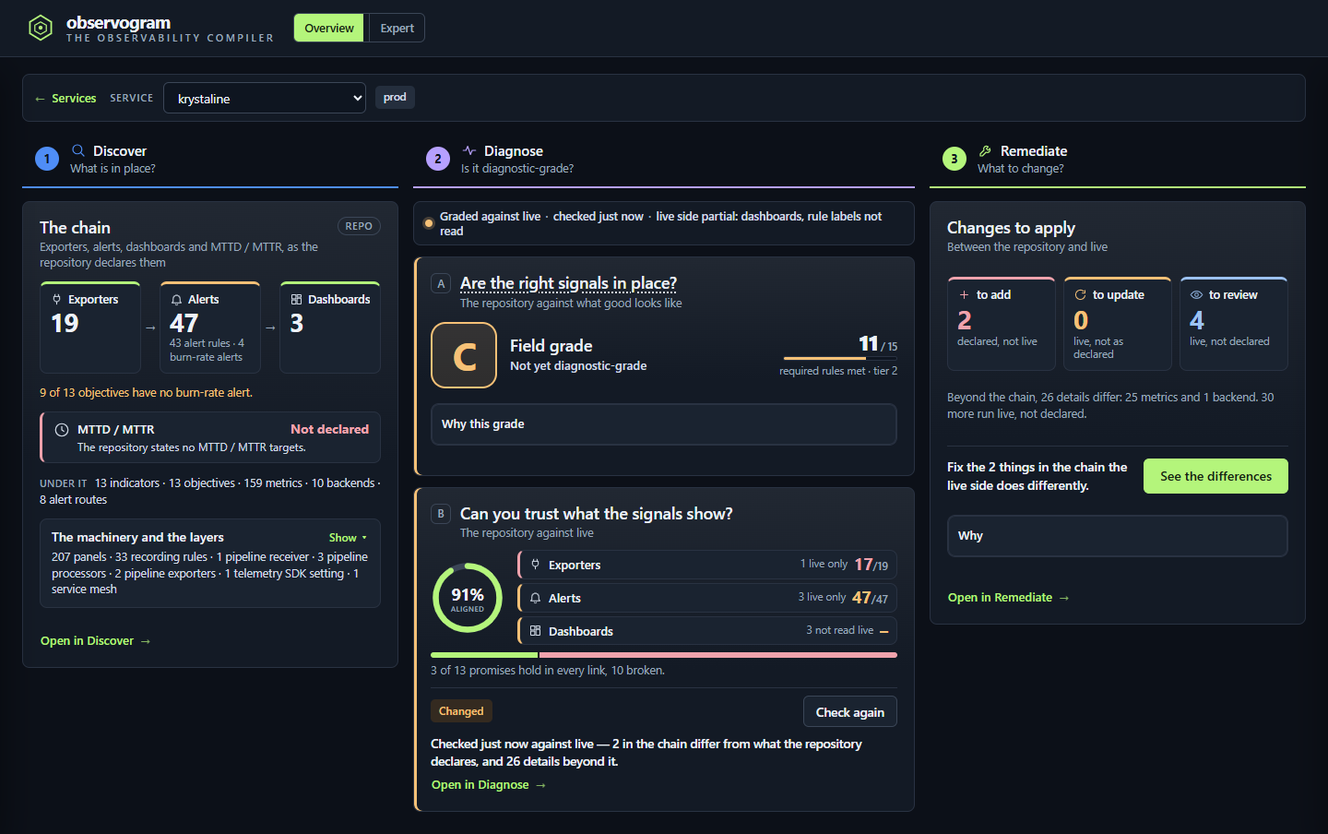
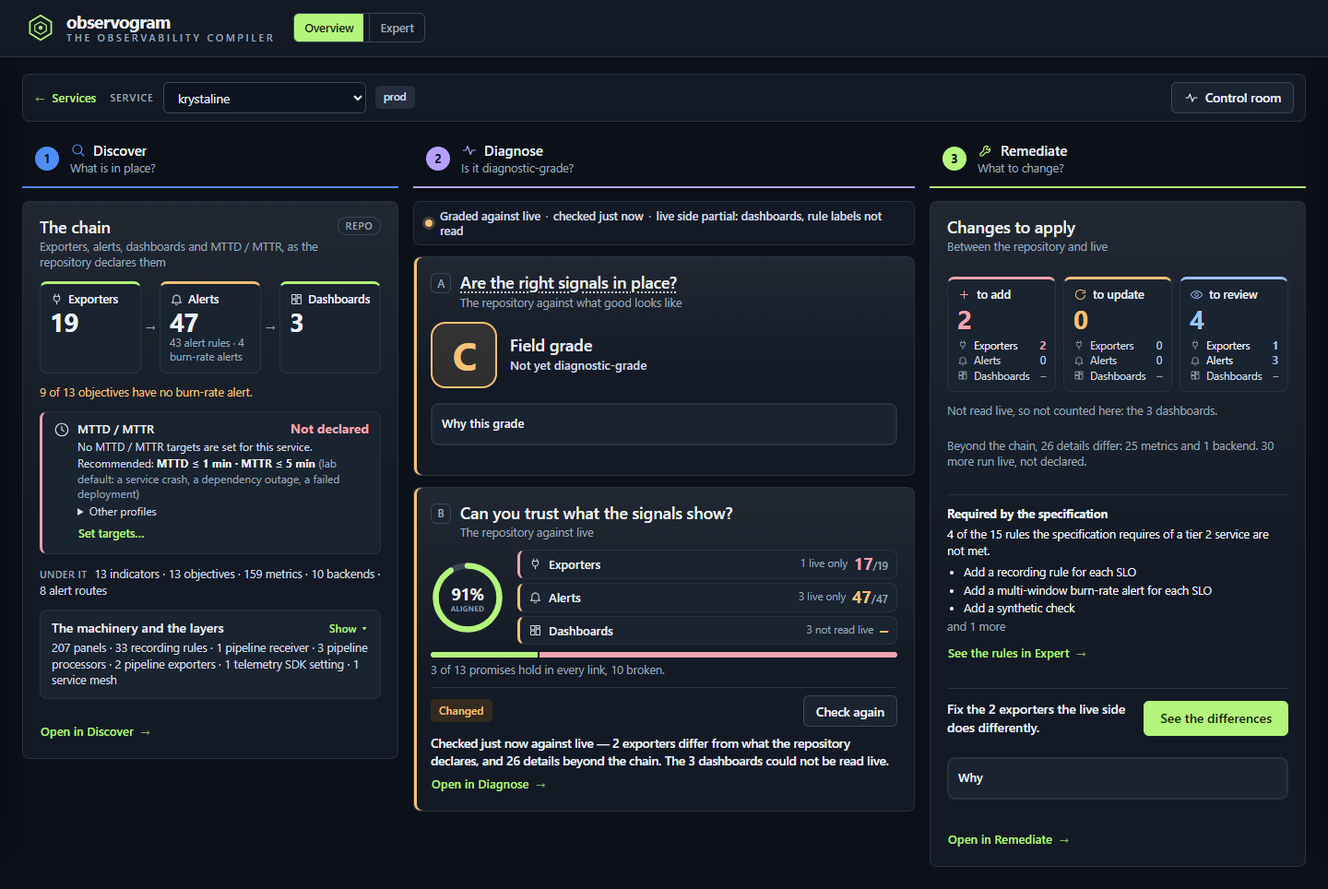
feat(studio): the specification's required rules move from the grade card to Remediate
Beside the grade letter the board drew "14 / 25 required rules met ·
tier 1" with a bar of its own: a second verdict on the same card, which
the grade does not count, so a B+ and a 56% seemed to disagree. The
grade card now holds the grade alone, and the rules not met are listed
in Remediate as things to do.

- studio/overview-view.mjs, overview.css: the grade card without the
  rules; Remediate's "Required by the specification" block (the count,
  the first three as what to do, and N more, See the rules in Expert).
- studio/overview-model.mjs rulesModel: unmet, missing (what to do, by
  Expert's own fixes, never a rule id), waived (left out, counted).
- studio/clause-fixes.mjs (new, zero-import): CLAUSE_FIX moved out of
  conformance-view.mjs (re-exported there), so the board shares it.
- studio/app.mjs: host.overview.openRules opens Expert's Conformance.
- nextActionModel: with live in agreement and rules left, the next step
  says those are what is left to add, never "nothing to do".
- README: the board's picture taken again (docs/img/overview-board.png).

diff --git a/studio/overview.css b/studio/overview.css
@@ -320,7 +320,7 @@ p.ov-scan__sum { cursor: default; }
 .ov-status--warn .ov-status__dot { background: var(--og-warn); box-shadow: 0 0 0 3px color-mix(in srgb, var(--og-warn) 22%, transparent); }
 .ov-status--fail .ov-status__dot { background: var(--og-fail); box-shadow: 0 0 0 3px color-mix(in srgb, var(--og-fail) 22%, transparent); }
 .ov-status__sep { color: var(--og-muted); margin: 0 2px; }
-.ov-result { display: grid; grid-template-columns: auto minmax(0, 1fr) auto; column-gap: 14px; align-items: center; margin-top: 12px; }
+.ov-result { display: grid; grid-template-columns: auto minmax(0, 1fr); column-gap: 14px; align-items: center; margin-top: 12px; }
 .ov-shield { width: 72px; height: 72px; display: grid; place-items: center; color: var(--og-text); border: 2px solid currentColor; border-radius: 16px; background: color-mix(in srgb, currentColor 12%, transparent); }
 .ov-shield.ov-tone-ok { color: var(--og-accent); }
 .ov-shield.ov-tone-warn { color: var(--og-warn); }
@@ -331,14 +331,12 @@ p.ov-scan__sum { cursor: default; }
 .ov-board .ov-grade__label { font: 600 18px/1.2 var(--og-font); letter-spacing: -0.01em; color: var(--og-text); }
 .ov-board .ov-grade__word { font: 500 13px/1.3 var(--og-font); color: var(--og-text-2); }
 .ov-board .ov-grade__src { font: 400 12px/1.3 var(--og-font); }
-.ov-rules { display: grid; gap: 4px; min-width: 124px; justify-items: end; text-align: right; }
-.ov-rules__n { font: 650 22px/1 var(--og-font); letter-spacing: -0.02em; color: var(--og-text); }
-.ov-rules__of { font: 500 12px/1 var(--og-font); color: var(--og-muted); margin-left: 3px; }
-.ov-rules__bar { width: 124px; height: 5px; border-radius: 3px; background: var(--og-sunken); border: 1px solid var(--og-line); overflow: hidden; }
-.ov-rules__bar > span { display: block; height: 100%; background: var(--og-accent); }
-.ov-rules--warn .ov-rules__bar > span { background: var(--og-warn); }
-.ov-rules--fail .ov-rules__bar > span { background: var(--og-fail); }
-.ov-rules__text { font: 400 11.5px/1.3 var(--og-font); color: var(--og-muted); }
+/* Remediate's rules: what the specification requires and the pack does not declare. */
+.ov-rules { display: grid; gap: 6px; margin-top: 14px; padding-top: 12px; border-top: 1px solid var(--og-line); }
+.ov-rules__h { margin: 0; font: 650 13px/1.3 var(--og-font); color: var(--og-text); }
+.ov-rules__list { margin: 0; padding-left: 18px; display: grid; gap: 2px; font: 400 12.5px/1.4 var(--og-font); color: var(--og-text); }
+.ov-rules__more { list-style: none; margin-left: -18px; }
+.ov-rules__link { justify-self: start; }
 .ov-board .ov-grade__points { margin-top: 10px; font-size: 12.5px; }
 .ov-grade__why { margin-top: 12px; }
 .ov-gw-list--open { margin-top: 6px; gap: 4px; font-size: 13.5px; line-height: 1.4; }

diff --git a/docs/VENDORING.md b/docs/VENDORING.md
@@ -188,12 +188,13 @@ A host whose own fetcher writes neither gets "no chaos experiment declared in
 this pack", which is true. `boardGroupsHtml(layerId, entries, { annotations })`
 (studio/discover-board.mjs) reads the same two keys for the empty chaos group;
 without the third argument it says "None in this pack" as before.
-| [`studio/overview-model.mjs`](../studio/overview-model.mjs) | imports `services-model.mjs` (zero-import), `diagnostic-grade.mjs`, `set-asides.mjs` (zero-import), `artefact-tiers.mjs` (zero-import), `mttx-targets.mjs` (zero-import), `chaos-runs.mjs` (zero-import), `constants.mjs` — copy the eight together (CI-asserted: `tools/test-overview-model.mjs`) | the Overview board's model, pure — `buildOverviewModel(input)` and its parts (`gradeModel`, `gradeWhy`, `stillTrueModel`, `nextActionModel`, `chainModel`, `chainDifferences` and `chainWords` (the chain in words: what differs, what matches, what live did not read), `layersModel`, `rulesModel`, `fidelityModel`, `changesModel`, `vantageShrank`, `runGradesBoard`, `boardComparison`, `decideUiMode`, `decideOverviewLayout`), the control room's targets (`controlRoomMttx`), Record a chaos run… (`chaosExperimentsOf`, `chaosRunFormOpened`, `chaosRunFormInput`, `chaosRunPlan`, `chaosRunForgetPlan`, `chaosRunFormModel`) and the start's logic (`START_IDLE`, `startChoose`, `startAdopted`); see *The Overview board* below |
+| [`studio/overview-model.mjs`](../studio/overview-model.mjs) | imports `services-model.mjs` (zero-import), `diagnostic-grade.mjs`, `set-asides.mjs` (zero-import), `artefact-tiers.mjs` (zero-import), `mttx-targets.mjs` (zero-import), `chaos-runs.mjs` (zero-import), `constants.mjs`, `clause-fixes.mjs` (zero-import) — copy the nine together (CI-asserted: `tools/test-overview-model.mjs`) | the Overview board's model, pure — `buildOverviewModel(input)` and its parts (`gradeModel`, `gradeWhy`, `stillTrueModel`, `nextActionModel`, `chainModel`, `chainDifferences` and `chainWords` (the chain in words: what differs, what matches, what live did not read), `layersModel`, `rulesModel`, `fidelityModel`, `changesModel`, `vantageShrank`, `runGradesBoard`, `boardComparison`, `decideUiMode`, `decideOverviewLayout`), the control room's targets (`controlRoomMttx`), Record a chaos run… (`chaosExperimentsOf`, `chaosRunFormOpened`, `chaosRunFormInput`, `chaosRunPlan`, `chaosRunForgetPlan`, `chaosRunFormModel`) and the start's logic (`START_IDLE`, `startChoose`, `startAdopted`); see *The Overview board* below |
 | [`studio/set-asides.mjs`](../studio/set-asides.mjs) | **zero-import** (CI-asserted: `tools/test-overview-model.mjs`) | a service's set-asides — differences with live its grade leaves out (under development, not this service's): `applySetAsides(diff, list, { now })` returns the comparison without them (its summary and requirement chains scored again, the engine's beside), `setAsideCandidates`, `setAsideFingerprint`, `setAsideState`, `reviewDate`; the server's runs and Expert's Diagnose read the same rules |
 | [`studio/control-room-model.mjs`](../studio/control-room-model.mjs) | **zero-import** (CI-asserted: `tools/test-overview-model.mjs`) | the control room's model, pure: the panel's state from one read to the next (`controlRoomOpened`, `controlRoomReading`, `controlRoomAnswered`, `controlRoomFailed`, `controlRoomDue` — a minute; 1, 2, then 4 minutes after consecutive failures; none hidden, none after a final refusal) and `buildControlRoomModel({ state, serviceName, envName, mttx, now })`, the server's answer in words and numbers (MTTR and MTTD first, never a figure the read did not support; what the figures are of said under the title — the service's own, as the server scopes the read to its repository's alert rules and scrape jobs, or the endpoint's whole from an older server); `mttx` is `overview-model.mjs` `controlRoomMttx({ loaded, layered, layeredError, targets, settable })` — the repository's targets (`origin: 'repository'`), else the studio's with their words (`origin: 'studio'`, `mttdWords`, `mttrWords`: measured against, said so), else `{ declared: false, recommended }` (no verdict), each with every recorded chaos run (`runs`) and, with `settable`, `action` (*Set targets…* / *Change targets…*, the model's `targets: { label, aria }`, the panel's button to `host.overview.setTargets()`); `{ unread: true }` while the repository's pack is not read |
 | [`studio/control-room-view.mjs`](../studio/control-room-view.mjs) | imports `util.mjs` (escapeHtml), `host.mjs`, `ux-kit-pure.mjs` — as `overview-view.mjs` (CI-asserted) | `renderControlRoom(container, model, host)`: the panel into its own host element (never inside the board, which repaints) — two children, the panel and a live region kept across repaints; a repaint of the same service environment redraws only the pieces whose words changed — `host.overview.closeControlRoom` and `refreshControlRoom`; `placeControlRoom(head)`; `formatValue`, `boundWords` |
 | [`studio/control-room-api.mjs`](../studio/control-room-api.mjs) | imports `services-api.mjs` (requestJson) and `control-room-model.mjs` (CI-asserted) | `loadControlRoom(serviceId, env)` (`POST /api/services/:id/control-room`) and `createControlRoomDriver({ load, onChange, timers, visibility })`: one read at a time while the panel is open, paused while the page is hidden |
 | [`studio/mttx-targets.mjs`](../studio/mttx-targets.mjs) | **zero-import** (CI-asserted: `tools/test-mttx-targets.mjs`) | the MTTD / MTTR targets a service can be given in the studio: `MTTX_PROFILES` (Lab default — the recommended one —, Critical financial service, Significant degradation, Noncritical service), `targetsView`, the form's answer (`targetsFormValues`, `targetsFromForm`, `targetsFormProblems`, `targetsOptions`) and what the server accepts (`targetsErrors`, `targetsRecord`); the server's `parseTargets` reads the same list. The grade: `withStudioTargets(layered, targets)` puts them on the pack (`meta.studioTargets`) for `computeDiagnosticGrade`'s Calibrated, which counts them where the repository states no baselines of its own — apply it as the board and Expert do (`studio/app.mjs`), and a check takes them as `runJourney({ mttxTargets })` or its file's `mttxTargets` (`storedTargetsError` says why one does not load); `targetsTermKey` is the key the board compares a run's `grade.targets` with the service's — a run names them only when its Calibrated counted them, so a host grading checks itself records `grade.targets` the same way, or the board grades a counted letter again from the repository (`overview-model.mjs` `studioTargetsCounted`) |
+| [`studio/clause-fixes.mjs`](../studio/clause-fixes.mjs) | **zero-import** (CI-asserted: `tools/test-overview-model.mjs`) | `CLAUSE_FIX` — for each rubric clause of the specification (`tools/lib/conformance.mjs`) why it is not met and what to do (`{ reason, action }`); Expert's Conformance and the board's Remediate (`rulesModel`) read the same words; `studio/conformance-view.mjs` re-exports it |
 | [`studio/chaos-runs.mjs`](../studio/chaos-runs.mjs) | **zero-import** (CI-asserted: `tools/test-chaos-runs.mjs`) | the chaos runs a person records in the studio: what the server accepts (`chaosRunErrors`, `chaosRunRecord`, `chaosRunId`, `sameChaosRun`), the MTTD typed (`parseMttdText`, `mttdSeconds`, `mttdDuration`), a run in words (`chaosRunWords`), and `withStudioRuns(layered, runs, { env })` — the newest run of each experiment in an environment as its `last_result` where newer than the repository's; the server's `parseChaosRuns` and the journey runner read the same rules |
 | [`studio/artefact-tiers.mjs`](../studio/artefact-tiers.mjs) | **zero-import** (CI-asserted: `tools/test-overview-model.mjs`) | what people know and what they do not: every artefact family's tier — 1 the chain (exporters, alerts, dashboards, MTTD / MTTR), 2 the detail, 3 the machinery — `declaredByTier(layered)` (what a pack declares by tier, the objectives no burn-rate alert covers, the MTTD / MTTR targets), `comparisonByTier(diff)` (a comparison by link and tier: what each run records as `drift.tiers`), `CHAIN_LINKS`, `tierOfFamily`, `familyOfArtefact`; its id prefixes mirror `tools/lib/artefact-classify.mjs` (CI-asserted: `tools/test-artefact-tiers.mjs`) |
 | [`studio/overview-view.mjs`](../studio/overview-view.mjs) | `escapeHtml` from `util.mjs` (the stub); `host.mjs`; `ux-kit-pure.mjs` (CI-asserted) | `renderOverview(container, model, host)`: the board and its simple fallback layout from the model; actions ride on `host.overview` |
@@ -293,6 +294,7 @@ host.overview = {
   selectService(id), selectEnv(name),           // the picker and the environment switch
   checkNow(),                                   // Check again → runServiceCheck, then re-read the facts
   openDiscover(compare), openDiagnose(compare), openRemediate(compare),   // the column links (compare: below)
+  openRules(compare),                           // Remediate's "See the rules in Expert": the specification's rules (Conformance)
   openNeuron(),                                 // "See the differences"
   expert(), retry(),                            // the mode switch; the Retry of an unreadable listing
   scan(), live(), upload(slot), resetStart(),   // the start's ways in (below): your repo scan, your live draft, your upload into 'a' or 'b'; Change Pack A

diff --git a/docs/UX_SCREEN_GRAMMAR.md b/docs/UX_SCREEN_GRAMMAR.md
@@ -174,9 +174,9 @@ fail, and for a service without a pack of its own).
 | --- | --- | --- | --- |
 | Discover | What is in place? | *Layers*: the stack top down (user experience · application · platform · infrastructure), each layer a translucent plate in its identity colour with an outline icon, its name and hint, a green / amber / red pill (*7 of 10 kinds*) and its count; the ten cells labelled above the first row (*SLI · SLO · Met · Log · Trc · Dash · Alrt · Run · Chaos · Syn*) and lit in the layer's colour where the repository declares that kind, with the count; three stats (declared · coverage · unplaced), where the plates plus *Unplaced* are *Declared*, each artefact once — *Unplaced* is what has no layer it could be placed on and what is no kind of signal of its own (an alert route, a pipeline part, a platform-wide setting); the pack's own layers behind a compact *In the repository* row | `computePostureMatrix(pack, null).cells`, distinct declared artefacts per cell; `layerItemsFor` per pack layer; the four layers' average is the Comprehensive criterion |
 | Diagnose | (the status strip) | One line for the column: what was graded against what, when, which probe families could not be read, the cadence — said once, never repeated under the results | the grade's basis, the run's time, `probes.failed`, the journey's schedule |
-| Diagnose | A — Are the right signals in place? | The grade letter in a shield; its ladder name in plain words; beside it the specification's required rules (*12 / 15 required rules met · tier 2*, a bar); the seven criteria as one plain sentence each with a *Yes · Partly · No* pill, the yeses first, and the sum with the next band (*4.9 of 7 points. B+ starts at 5.3.*) — behind *Why this grade*, closed until the reader opens it, whatever the screen's room | `computeDiagnosticGrade` — the journey's last run when it graded this pack against live, else the pack alone; `GET /api/packs/:id/conformance`; the seven lines from the pack-alone criteria plus the run's chain integrity and live age, withheld unless they add up to the letter |
+| Diagnose | A — Are the right signals in place? | The grade letter in a shield; its ladder name in plain words — the grade alone, no second figure beside it; the seven criteria as one plain sentence each with a *Yes · Partly · No* pill, the yeses first, and the sum with the next band (*4.9 of 7 points. B+ starts at 5.3.*) — behind *Why this grade*, closed until the reader opens it, whatever the screen's room | `computeDiagnosticGrade` — the journey's last run when it graded this pack against live, else the pack alone; the seven lines from the pack-alone criteria plus the run's chain integrity and live age, withheld unless they add up to the letter |
 | Diagnose | B — Can you trust what the signals show? | The alignment as a ring; four counts — *match · run differently · not running live · live only*; the promises as a bar (*5 of 18 promises hold in every link, 1 in part, 12 broken.*); then one of four words — *Never checked · Unchanged · Changed · Unreachable* — and one sentence with a time, and **Check again**. Withheld with the reason, never as zeros, when nothing live was seen whole | the service's journey and its last run (`/api/journeys`, `…/runs`): `drift`, `traceability`, `probes` |
-| Remediate | What to change? | *Changes to apply*: three tiles — *to add · to update · to review*, each with its outline icon, its count and a one-line note (*review* never reads as removal); one sentence, one primary button, quiet links, at most three plain items behind *Why* | the run's drift counts; the assessment's causes when nothing live was checked |
+| Remediate | What to change? | *Changes to apply*: three tiles — *to add · to update · to review*, each with its outline icon, its count and a one-line note (*review* never reads as removal); then *Required by the specification*: the rules the specification requires of the service's tier that the pack does not meet, counted, the first three as what to do (*Add a recording rule for each SLO*, Expert's Conformance's words), *See the rules in Expert*; one sentence, one primary button, quiet links, at most three plain items behind *Why* | the run's drift counts; the assessment's causes when nothing live was checked; `GET /api/packs/:id/conformance` (`must`, `clauses`, `waivers`) |
 
 Rules Overview adds to the grammar: four status words and no others; never a
 percentage, a layer code, an artefact id or an engine word (declared only,

diff --git a/docs/CHANGELOG.md b/docs/CHANGELOG.md
@@ -2,6 +2,23 @@
 
 ## Unreleased
 
+## 0.8.34 — 2026-11-11
+
+**The grade card shows the grade alone; the specification's required rules move to Remediate.** Beside the letter, the board drew *14 / 25 required rules met · tier 1* with a bar of its own — a second verdict on the same card, which the grade does not count, so a B+ and a 56% seemed to disagree. The rules are things to add to the pack, so they are now listed where the changes are.
+
+### Changed
+- **The grade card** (`studio/overview-view.mjs`, `studio/overview.css`): the shield, its ladder name, the verdict word and *Why this grade* — nothing else beside the letter.
+- **Remediate — Required by the specification** (`studio/overview-model.mjs` `rulesModel`, `studio/overview-view.mjs`, `studio/app.mjs`): under the three tiles, *3 of the 15 rules the specification requires of a tier 2 service are not met.*, the first three as what to do (*Add a recording rule for each SLO*: Expert's Conformance's own fix for the rule, else the clause's description, never its id), *and N more*, and **See the rules in Expert**, which opens Expert's Conformance on the service's pack (`host.overview.openRules(compare)`, new). A waived rule is left out of the list and counted (*(1 of them waived)*); all met reads *All 15 rules the specification requires of a tier 2 service are met.*; a failed read says the rules could not be read, with nothing to open. `rulesModel` gains `unmet`, `missing` (what to do) and `waived`; its sentence changes. The rules' words move from `studio/conformance-view.mjs` to a new zero-import `studio/clause-fixes.mjs` (`CLAUSE_FIX`, re-exported where it was), which joins the board's copyable closure; its one fix that read as a fragment without its reason (*Point it at … ref:*) now stands alone (*Point each extended surface at a declared backend or an explicit ref: reference*).
+- **The next step** (`studio/overview-model.mjs` `nextActionModel`, `rulesLeft`): with live in agreement and rules still to add, it says *Live matches what the repository declares; the 4 rules the specification requires, above, are what is left to add.*, never *Nothing to do right now*.
+- **Docs.** `README.md` (Diagnose, Remediate, the board's picture taken again: `docs/img/overview-board.png`), `docs/USER_JOURNEY.md` (the board's map, Diagnose, Remediate), `docs/UX_SCREEN_GRAMMAR.md`, `docs/OVERVIEW_DEMO.md`, `docs/VENDORING.md` (`openRules`, `clause-fixes.mjs`, the board's nine files).
+- **Downstream:** api, behaviour — `rulesModel` returns `unmet`, `missing` and `waived` and words its sentence as the rules not met; the board's closure gains `studio/clause-fixes.mjs` (copy the nine together); the board calls a new `host.overview.openRules(compare)` (a host without it draws the link, which does nothing); the grade card no longer shows the required rules, Remediate does.
+
+### Tests
+- `tools/test-overview-model.mjs`: `rulesModel` (the rules not met as what to do, a rule the table does not know by its description, all met, one and many, a waived rule, the tier from the body's object, an unread body), the grade card without the rules, Remediate's block and its place before the next step, *See the rules in Expert* reaching `host.overview.openRules` with the comparison; the board's closure with `clause-fixes.mjs`; every rule's fix standing on its own; the next step with rules left to add.
+- Cut as 0.8.34: package.json and its lock, the image tags, the footer fallback and VENDOR-MANIFEST.json regenerated.
+- Suite total 1918 → 1918.
+- **Downstream:** none — tests only.
+
 ## 0.8.33 — 2026-11-11
 
 **Multi-modal and Comprehensive earn points by how far they get, not all or nothing.** Comprehensive gave the whole point at 50 in 100 observed and nothing at 48, so krystaline's 48 cost it 14 points of a hundred — B+ at 84.7% against A+ two points of coverage away. Multi-modal had the same cliff at three kinds of signal. Both now earn what they reach, as Drift-free already did: the average observed is the points (0.48 of a point at 48 in 100), the kinds of four are the points (0.75 at three). Each is still met at its bar, so the Pass and Fail marks are unchanged; the points are what move.

diff --git a/docs/USER_JOURNEY.md b/docs/USER_JOURNEY.md
@@ -111,9 +111,10 @@ The Run
 Open: the board              1 Discover · 2 Diagnose · 3 Remediate
   |-- Layers: what the repository declares, layer by layer,
   |   and what the scan read and left out
-  |-- A: the grade, Why this grade, the required rules
+  |-- A: the grade, Why this grade
   |-- B: the alignment, four counts, the promises; Check again
-  |-- Changes to apply: to add · to update · to review; the next step
+  |-- Changes to apply: to add · to update · to review; the required
+  |   rules not met; the next step
   v
 Open in Discover / Open in Diagnose / Open in Remediate
   |   Expert, bound to the service, with the live pack the board graded as Pack B
@@ -617,8 +618,8 @@ Belongs here:
     click*);
   - **A — Are the right signals in place?** (*The repository against what
     good looks like*): the grade letter in a shield, its ladder name in plain
-    words (*Field grade*), the verdict word, the required rules (*11 / 15
-    required rules met · tier 2*) and *Why this grade*, closed until the
+    words (*Field grade*), the verdict word and *Why this grade* — the grade
+    alone, no second figure beside it — closed until the
     reader opens it — where a criterion that does not apply to this service
     is switched off (*Not for this service…*, a reason required) and back on
     (*Grade it again*), and *Graded on 6 of 7 criteria* under the verdict
@@ -643,7 +644,12 @@ Belongs here:
   details differ: 31 metrics. 4 more run live, not declared.*); a link live
   could not read said so, never "matches" (*Nothing to change in the
   exporters and alerts: they match live. Not read live, so not compared: the 7
-  dashboards.*); the next step, one sentence and one button, in the chain's
+  dashboards.*); under them, *Required by the specification*: the rules the
+  specification requires of the service's tier that the pack does not meet
+  (*3 of the 15 rules the specification requires of a tier 2 service are not
+  met.*), the first three as what to do, in Expert's Conformance's words
+  (*Add a recording rule for each SLO*), a waived one left out and counted,
+  and *See the rules in Expert* (Conformance); the next step, one sentence and one button, in the chain's
   words (*Fix the 1 exporter and 2 alerts the live side does differently.*,
   *Exporters and alerts match live, the 7 dashboards could not be read; look
   at the 32 details beyond the chain.*, or *The chain matches live; look at
@@ -653,7 +659,9 @@ Belongs here:
   behind *Why*), **Check now** or **Check again**, or **Open Expert mode**
   when the check reads a recording; with nothing to change, the sentence
   alone (*Nothing to do right now: live matches what the repository
-  declares.*); **Open in Remediate**;
+  declares.*, or, with the specification's rules still to add, *Live matches
+  what the repository declares; the 3 rules the specification requires,
+  above, are what is left to add.*); **Open in Remediate**;
 - where there is no Services list (the static bundle), or for a service with
   a check but no pack yet, the drift check started here in three steps —
   *Scan a repo* (Pack A: **Scan a repository** or **Upload a pack**),

diff --git a/README.md b/README.md
@@ -107,9 +107,10 @@ three columns, every number the engine's own —
   each — behind *The machinery and the layers*.
 - **Diagnose — Are the right signals in place?** The diagnostic grade as a
   letter in a shield with its ladder name (*Industrial grade*), whether it
-  was graded against live or from the repository alone, the specification's
-  required rules as a bar, and the seven criteria behind the letter as one
-  plain sentence each with a yes, a partly or a no. **Can you trust what the
+  was graded against live or from the repository alone, and the seven
+  criteria behind the letter as one plain sentence each with a yes, a partly
+  or a no — the grade alone: the specification's required rules are not part
+  of it, and are listed in Remediate. **Can you trust what the
   signals show?** The chain against live, a row per link (*Exporters 21/21 ·
   Alerts 66/66 · Dashboards 7 not read live*), the chain's alignment as a
   ring, the promises that hold end to end, and one of four
@@ -128,6 +129,12 @@ three columns, every number the engine's own —
   step with one button, in the same words (*Fix the 1 exporter and 2 alerts
   the live side does differently.*). A link live could not read is said so,
   never "matches" (*Not read live, so not compared: the 7 dashboards.*).
+  Under them, *Required by the specification*: the rules the specification
+  requires of the service's tier that the pack does not meet (*11 of the 25
+  rules the specification requires of a tier 1 service are not met.*), the
+  first three as what to do (*Set otel.semconv to 1.27.0*), and **See the
+  rules in Expert** (Conformance). With live in agreement, the next step says
+  those rules are what is left to add.
 
 ![The Overview board for one service: the chain it declares, its grade and its chain against live, and the changes to apply](docs/img/overview-board.png)
 

diff --git a/docs/OVERVIEW_DEMO.md b/docs/OVERVIEW_DEMO.md
@@ -74,8 +74,11 @@ moves with drift."*
 **1:05 — Why this grade** (open on a tall monitor; on a laptop, open it).
 Seven lines, each a yes, a partly or a no, and the sum: *3.9 of 7 points. B
 starts at 4.4.* Say: *"Three things it has, two nearly, two it lacks. That is
-the whole grade; nobody has to take the letter on trust."* Beside the
-shield, the rules: *11 / 15 required rules met · tier 2* (12 before the crawler's invented health canary stopped passing the synthetic-probe rule).
+the whole grade; nobody has to take the letter on trust."* The
+specification's required rules are not beside the shield: they are in
+Remediate, as things to add (*4 of the 15 rules the specification requires of
+a tier 2 service are not met.*, the first three as what to do — *Add a recording rule for each SLO* —, *See the rules in
+Expert*).
 
 **1:15 — press Open in Remediate** (bottom of the right column). Expert's
 Remediate, on this service. Say: *"Everything you saw last time is one click
